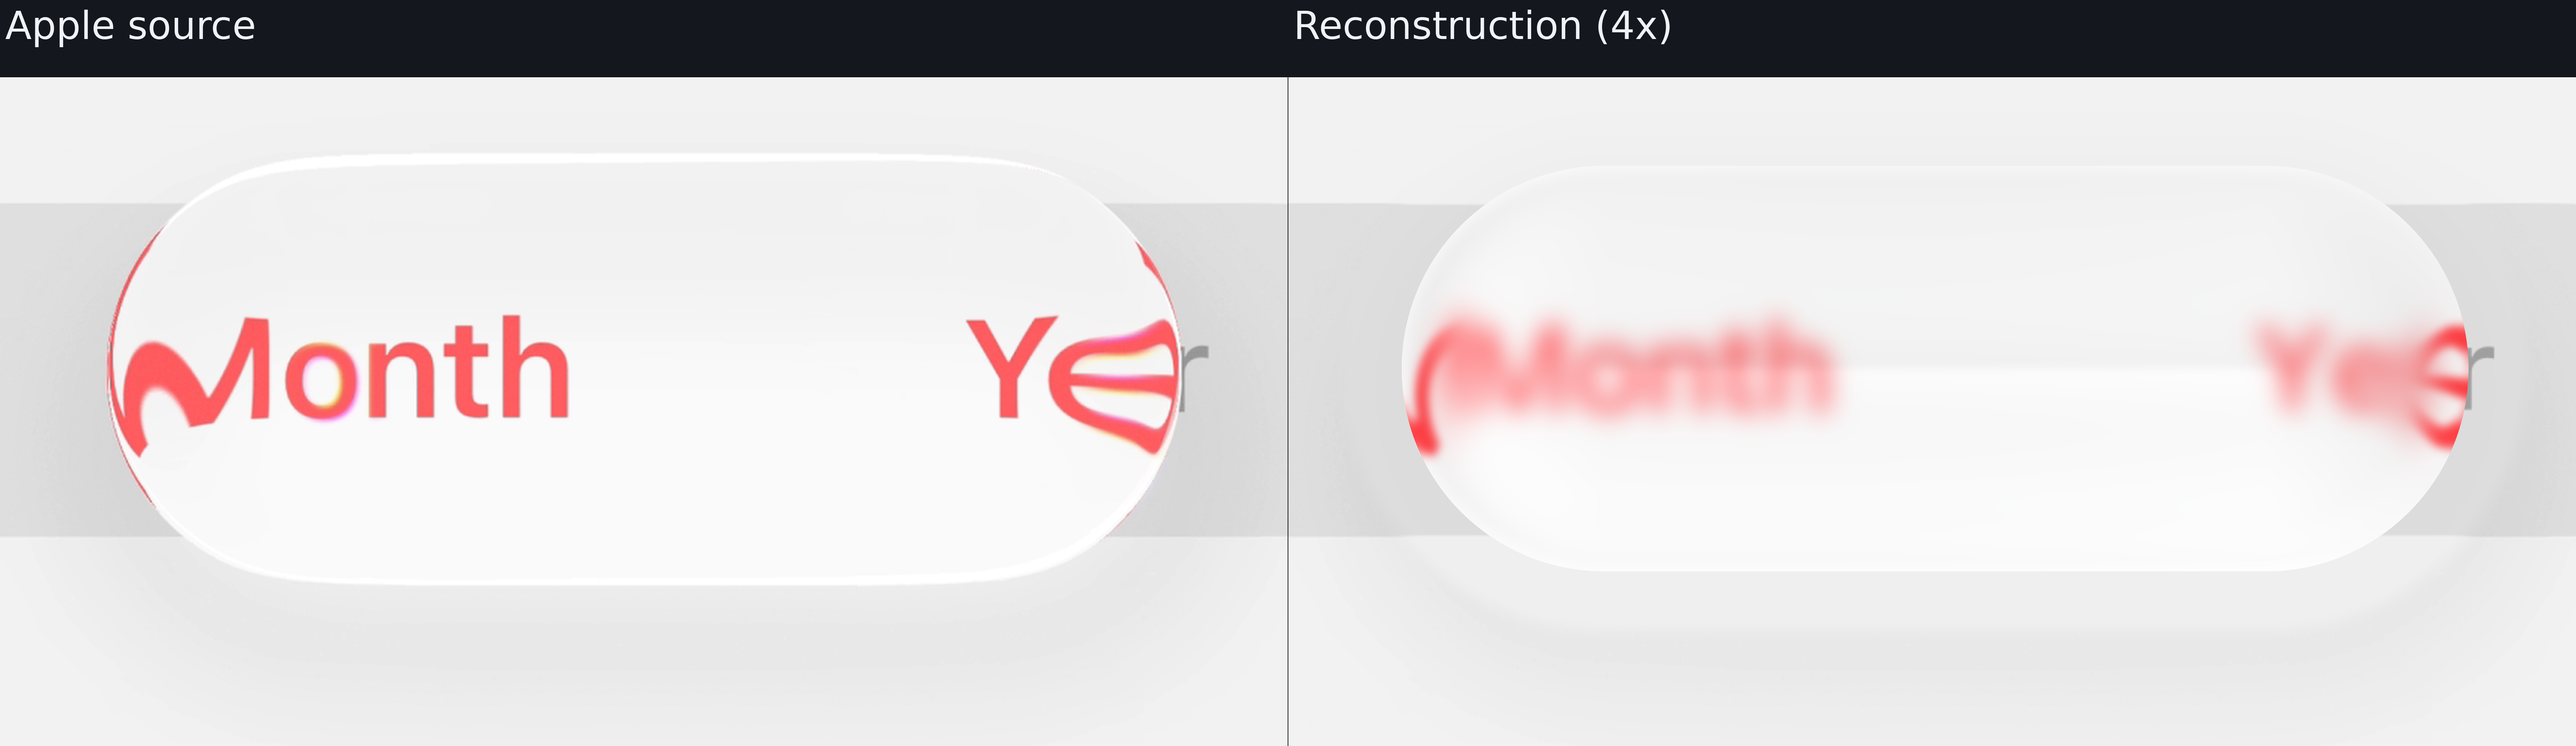
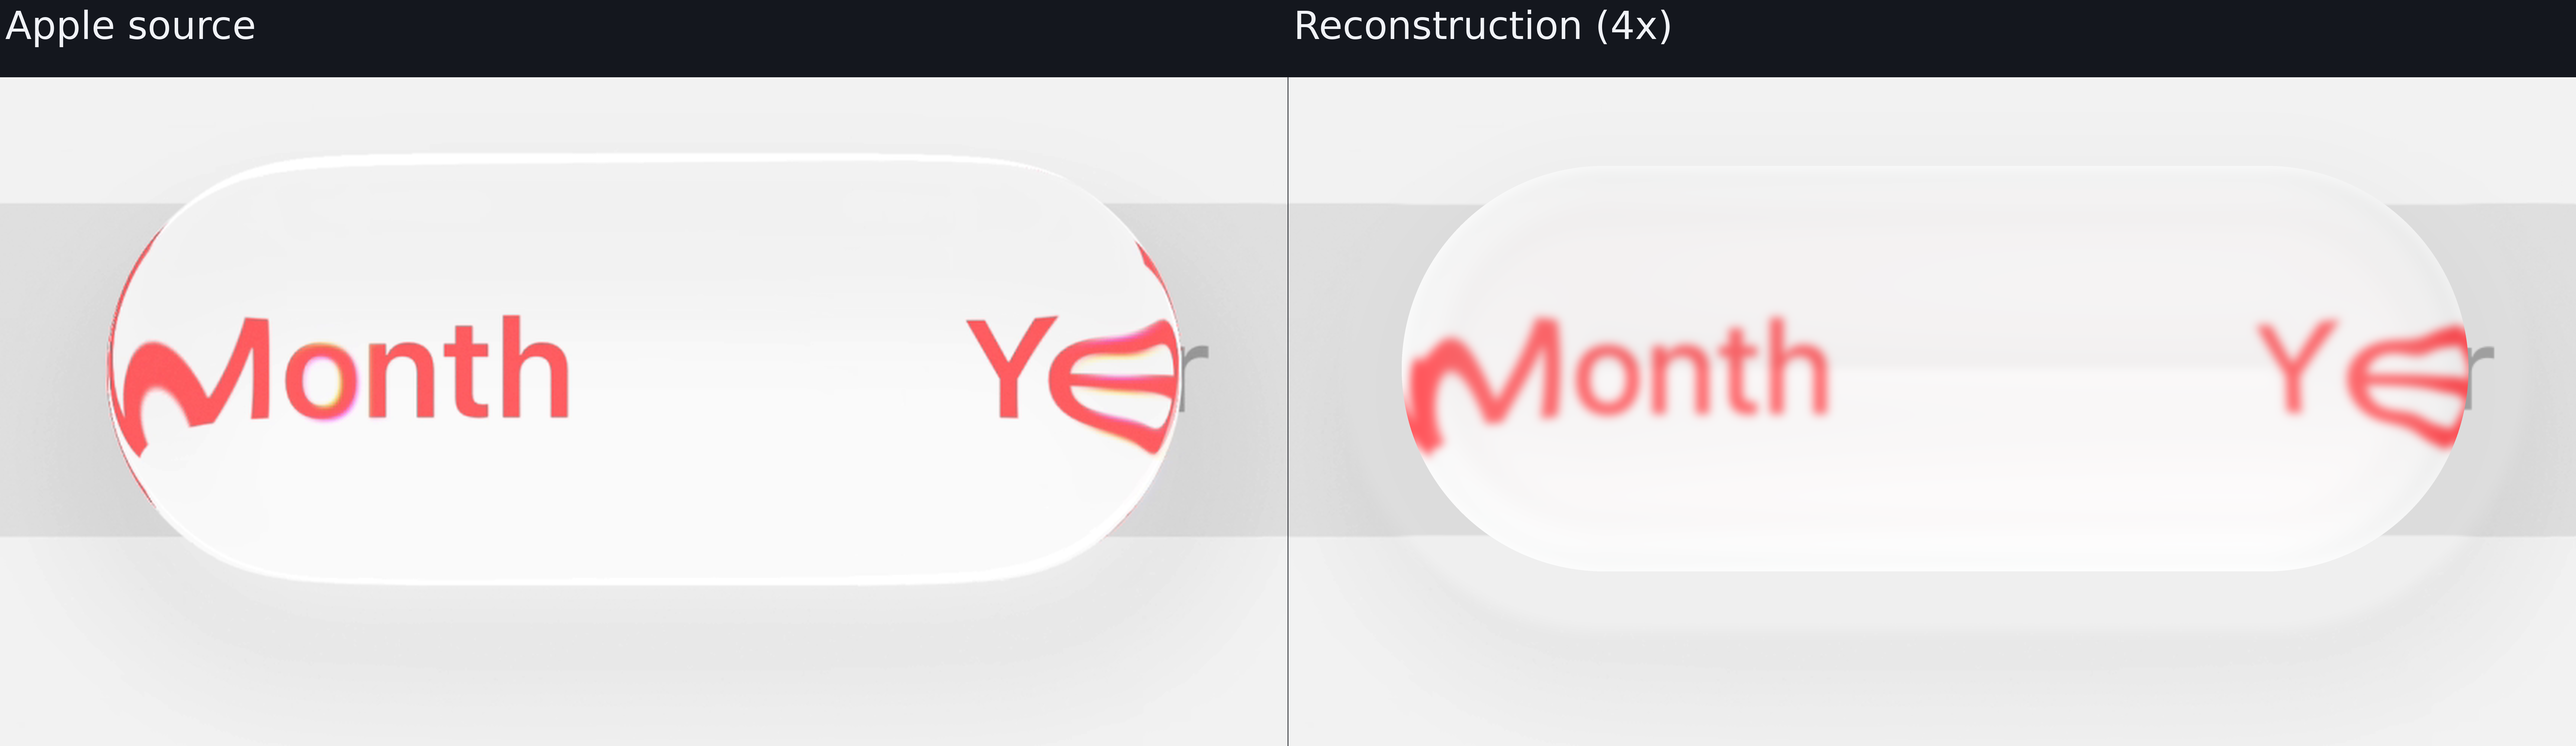
Refine active-segmented-selector pass 14: rim-profile and scattering co-refinement (#222) [skip ci]

Changed region(s): [[0.5299, 0.4014, 0.7169, 0.6175], [0.8727, 0.4323, 0.9662, 0.5867]]

diff --git a/docs/liquid-glass/reconstruction.md b/docs/liquid-glass/reconstruction.md
@@ -302,7 +302,7 @@ Each crop below places Apple on the left and snapshot 24 on the right. The gray-
 
 ## Active segmented selector
 
-Single-reference pass 13. Weighted loss 395.877; glass RMSE 22.347 The source is Apple's Details video at 16.4 seconds. The earlier13 source-biased passes are [archived and excluded](experiments/reconstruction/studies/active-segmented-selector/invalid-track-registration/status.json); the corrected source is constrained by both distant track ends. An [intermediate caption proxy](experiments/reconstruction/studies/active-segmented-selector/invalid-lensed-caption-proxy/status.json) is also excluded; current caption geometry uses only independently unoccluded labels. A second observed position at 16.5 seconds is reserved for paired calibration; no paired acceptance is claimed yet.
+Single-reference pass 14. Weighted loss 324.786; glass RMSE 20.442 The source is Apple's Details video at 16.4 seconds. The earlier13 source-biased passes are [archived and excluded](experiments/reconstruction/studies/active-segmented-selector/invalid-track-registration/status.json); the corrected source is constrained by both distant track ends. An [intermediate caption proxy](experiments/reconstruction/studies/active-segmented-selector/invalid-lensed-caption-proxy/status.json) is also excluded; current caption geometry uses only independently unoccluded labels. A second observed position at 16.5 seconds is reserved for paired calibration; no paired acceptance is claimed yet.
 
 [![Active segmented selector: Apple left, reconstruction right](assets/study-active-segmented-selector-progress-a.png)](assets/study-active-segmented-selector-progress-a.png)
 
